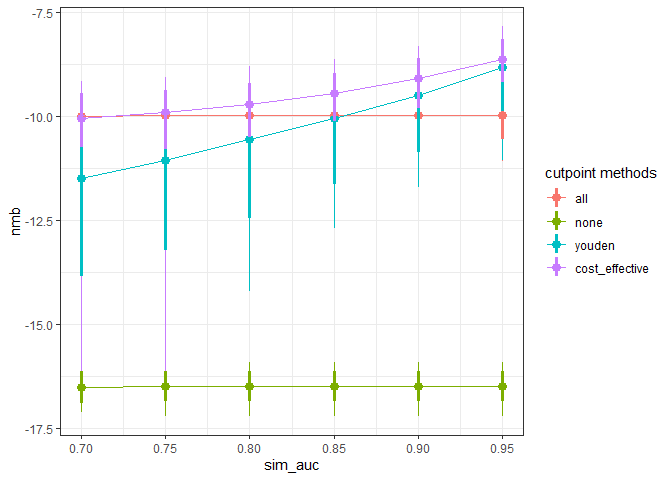
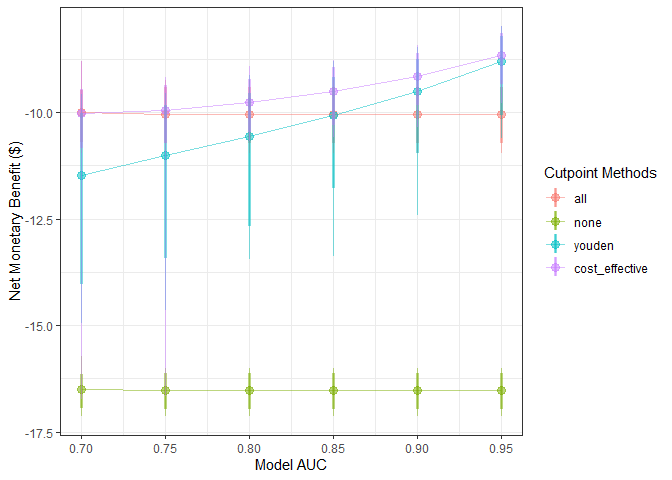
update readme

diff --git a/README.md b/README.md
@@ -127,4 +127,134 @@ plot(
 #> Screening over sim_auc by default
 ```
 
-<img src="man/figures/README-unnamed-chunk-6-2.png" width="100%" />
+<img src="man/figures/README-unnamed-chunk-6-2.png" width="100%" /> By
+default, the median (dot), 95% interval (thick vertical line), range
+(skinny vertical line), and lines between points are shown. All except
+the dots can be optionally turned off or on, and the width of the
+interval can be controlled with `ci`
+
+``` r
+plot(
+  sim_screen_obj,
+  plot_line = FALSE,
+  plot_range = FALSE,
+  plot_ci = 0.8
+)
+#> No value for 'x_axis_var' given.
+#> Screening over sim_auc by default
+```
+
+<img src="man/figures/README-unnamed-chunk-7-1.png" width="100%" />
+
+``` r
+plot(
+  sim_screen_obj,
+  plot_line = TRUE,
+  plot_range = FALSE,
+  plot_ci = 0
+)
+#> No value for 'x_axis_var' given.
+#> Screening over sim_auc by default
+```
+
+<img src="man/figures/README-unnamed-chunk-7-2.png" width="100%" />
+
+The simulations for a given set of inputs can be accessed from our
+`predictNMBscreen` object (`sim_screen_obj`). These are the same as the
+output from `do_nmb_sim()` and have their own methods as well. Here, the
+plot shows the median as the solid bar within the distribution and the
+light blue portion of the distribution is the 95% interval (level can be
+changed using the `ci` argument).
+
+``` r
+sim_screen_obj$simulations
+#> [[1]]
+#> predictNMB object
+#> 
+#> Training data sample size:  189
+#> Evaluation data sample size:  10000
+#> Number of simulations:  500
+#> Simulated AUC:  0.7
+#> Simulated event rate:  0.1
+#> [[2]]
+#> predictNMB object
+#> 
+#> Training data sample size:  139
+#> Evaluation data sample size:  10000
+#> Number of simulations:  500
+#> Simulated AUC:  0.75
+#> Simulated event rate:  0.1
+#> [[3]]
+#> predictNMB object
+#> 
+#> Training data sample size:  139
+#> Evaluation data sample size:  10000
+#> Number of simulations:  500
+#> Simulated AUC:  0.8
+#> Simulated event rate:  0.1
+#> [[4]]
+#> predictNMB object
+#> 
+#> Training data sample size:  139
+#> Evaluation data sample size:  10000
+#> Number of simulations:  500
+#> Simulated AUC:  0.85
+#> Simulated event rate:  0.1
+#> [[5]]
+#> predictNMB object
+#> 
+#> Training data sample size:  139
+#> Evaluation data sample size:  10000
+#> Number of simulations:  500
+#> Simulated AUC:  0.9
+#> Simulated event rate:  0.1
+#> [[6]]
+#> predictNMB object
+#> 
+#> Training data sample size:  139
+#> Evaluation data sample size:  10000
+#> Number of simulations:  500
+#> Simulated AUC:  0.95
+#> Simulated event rate:  0.1
+sim_obj <- sim_screen_obj$simulations[[1]]
+
+sim_obj
+#> predictNMB object
+#> 
+#> Training data sample size:  189
+#> Evaluation data sample size:  10000
+#> Number of simulations:  500
+#> Simulated AUC:  0.7
+#> Simulated event rate:  0.1
+plot(sim_obj)
+```
+
+<img src="man/figures/README-unnamed-chunk-8-1.png" width="100%" />
+
+``` r
+plot(sim_obj, ci=0.50)
+```
+
+<img src="man/figures/README-unnamed-chunk-8-2.png" width="100%" /> The
+plot methods for both the `predictNMBscreen` and `predictNMBsim` objects
+have almost the same usage of arguments.
+
+``` r
+plot(
+  sim_obj, 
+  rename_vector=c("Treat All" = "all", "Treat None" = "none", "Youden Index" = "youden", "Cost-effective" = "cost_effective")
+)
+```
+
+<img src="man/figures/README-unnamed-chunk-9-1.png" width="100%" />
+
+``` r
+plot(
+  sim_obj, 
+  rename_vector=c("Treat All" = "all", "Treat None" = "none", "Youden Index" = "youden", "Cost-effective" = "cost_effective"),
+  what="inb",
+  inb_ref_col="Treat All"
+)
+```
+
+<img src="man/figures/README-unnamed-chunk-9-2.png" width="100%" />
